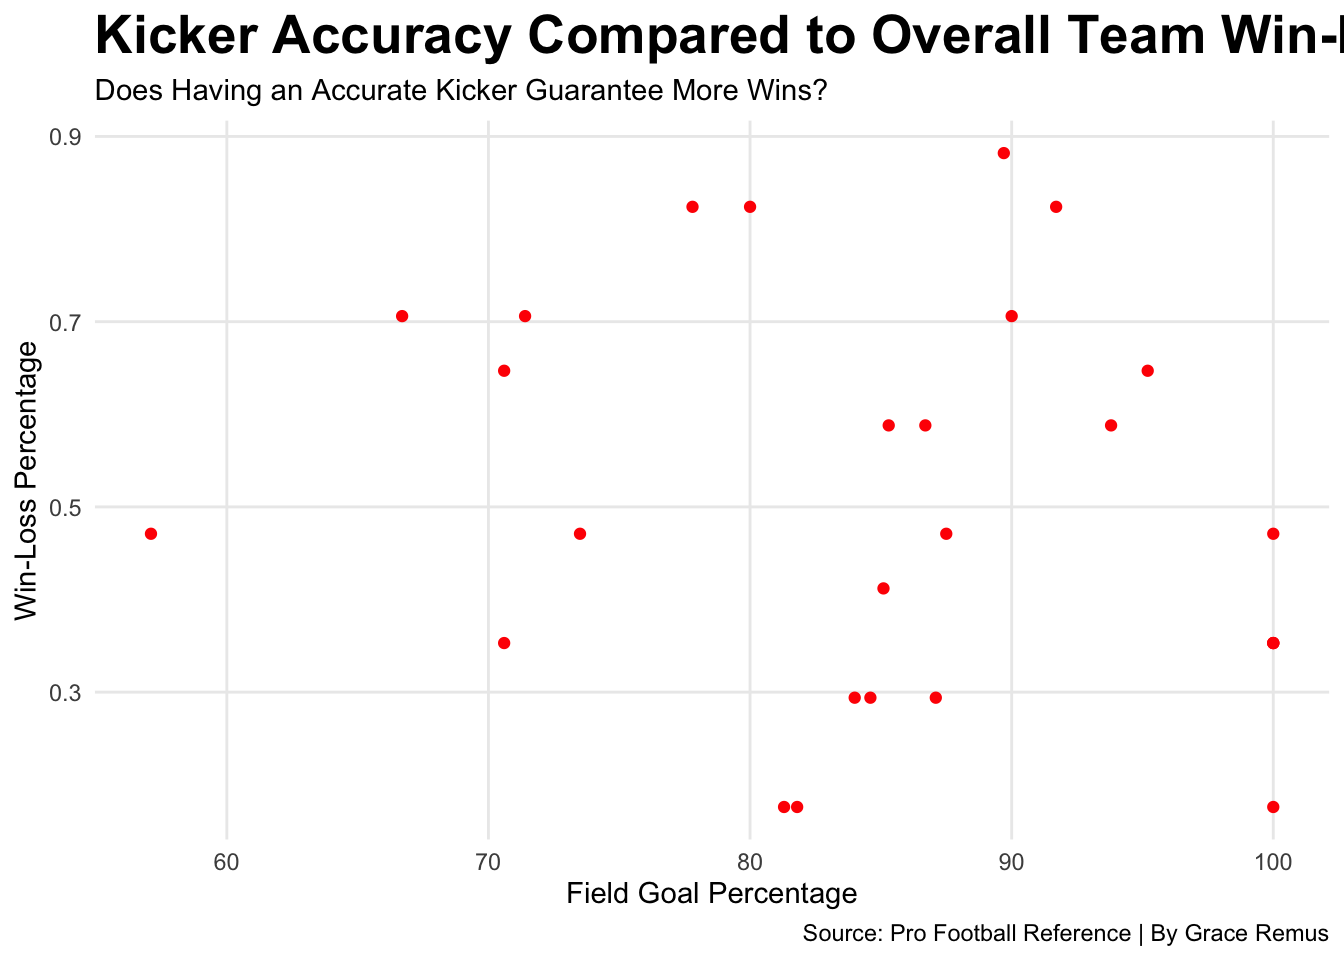
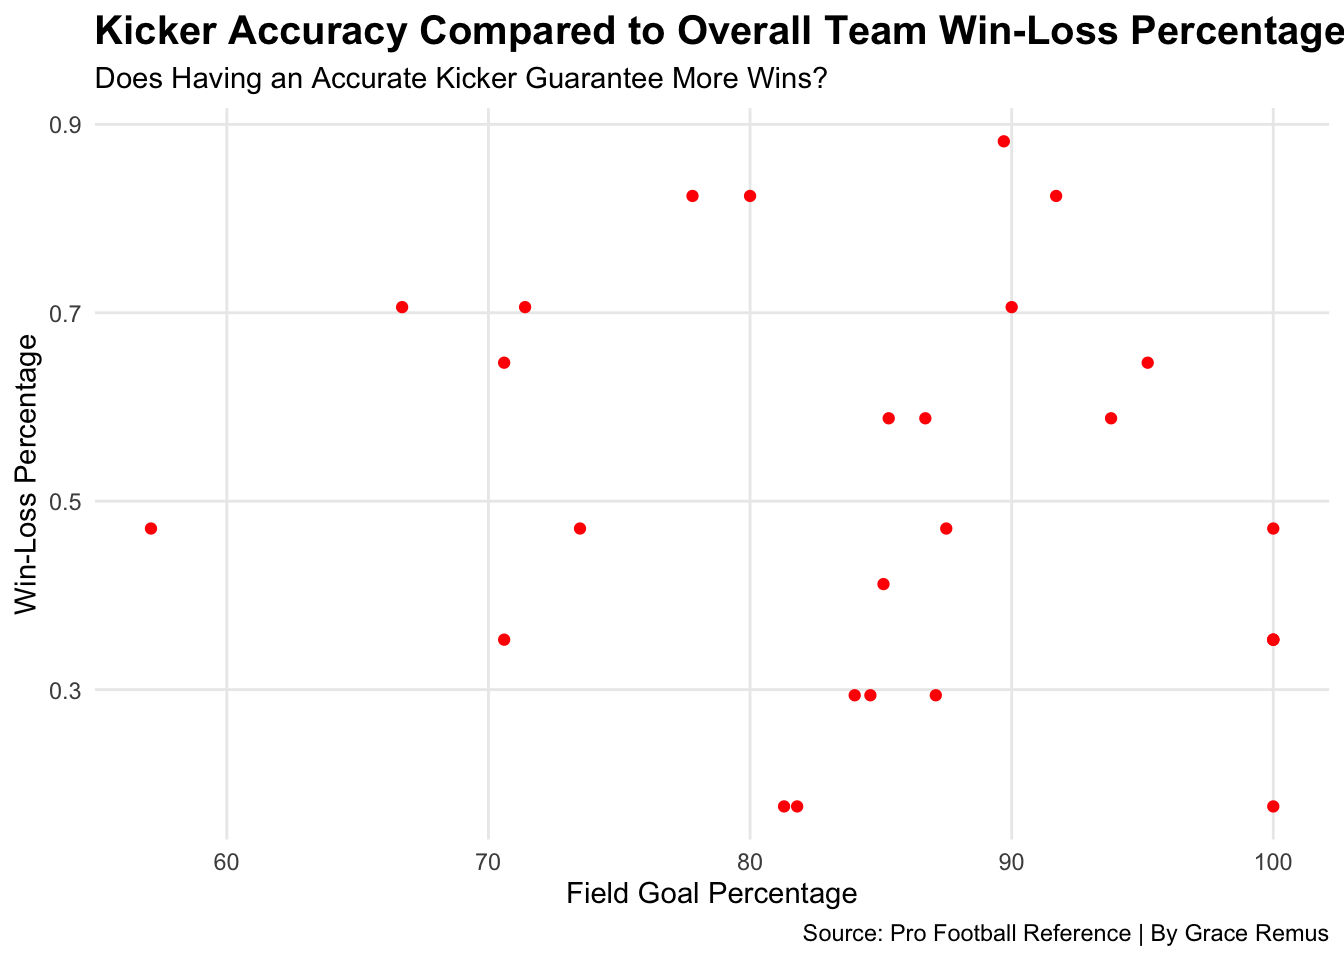
ughnowdone

diff --git a/posts/kicker-value-to-getting-wins/index.html b/posts/kicker-value-to-getting-wins/index.html
@@ -257,7 +257,7 @@ pre > code.sourceCode > span > a:first-child::before { text-decoration: underlin
 <span id="cb1-54"><a href="#cb1-54" aria-hidden="true" tabindex="-1"></a>    <span class="at">subtitle =</span> <span class="st">"Does Having an Accurate Kicker Guarantee More Wins?"</span>, <span class="at">caption=</span><span class="st">"Source: Pro Football Reference | By Grace Remus"</span></span>
 <span id="cb1-55"><a href="#cb1-55" aria-hidden="true" tabindex="-1"></a>  ) <span class="sc">+</span></span>
 <span id="cb1-56"><a href="#cb1-56" aria-hidden="true" tabindex="-1"></a>  <span class="fu">theme_minimal</span>() <span class="sc">+</span> <span class="fu">theme</span>(</span>
-<span id="cb1-57"><a href="#cb1-57" aria-hidden="true" tabindex="-1"></a>    <span class="at">plot.title =</span> <span class="fu">element_text</span>(<span class="at">size =</span> <span class="dv">20</span>, <span class="at">face =</span> <span class="st">"bold"</span>), <span class="at">panel.grid.minor =</span> <span class="fu">element_blank</span>()</span>
+<span id="cb1-57"><a href="#cb1-57" aria-hidden="true" tabindex="-1"></a>    <span class="at">plot.title =</span> <span class="fu">element_text</span>(<span class="at">size =</span> <span class="dv">15</span>, <span class="at">face =</span> <span class="st">"bold"</span>), <span class="at">panel.grid.minor =</span> <span class="fu">element_blank</span>()</span>
 <span id="cb1-58"><a href="#cb1-58" aria-hidden="true" tabindex="-1"></a>    ) </span></code></pre></div><button title="Copy to Clipboard" class="code-copy-button"><i class="bi"></i></button></div>
 </details>
 <div class="cell-output-display">

diff --git a/index.html b/index.html
@@ -209,7 +209,7 @@ window.Quarto = {
 
 <div class="quarto-listing quarto-listing-container-default" id="listing-listing">
 <div class="list quarto-listing-default">
-<div class="quarto-post image-right" data-index="0" data-categories="Zm9vdGJhbGwlMkNuZmwlMkNraWNrZXI=" data-listing-date-sort="1763359200000" data-listing-file-modified-sort="1763429192655" data-listing-date-modified-sort="NaN" data-listing-reading-time-sort="8" data-listing-word-count-sort="1467">
+<div class="quarto-post image-right" data-index="0" data-categories="Zm9vdGJhbGwlMkNuZmwlMkNraWNrZXI=" data-listing-date-sort="1763359200000" data-listing-file-modified-sort="1763429276036" data-listing-date-modified-sort="NaN" data-listing-reading-time-sort="8" data-listing-word-count-sort="1467">
 <div class="thumbnail"><a href="./posts/kicker-value-to-getting-wins/index.html" class="no-external">
 
 <img loading="lazy" src="./posts/kicker-value-to-getting-wins/image.png" class="thumbnail-image">
